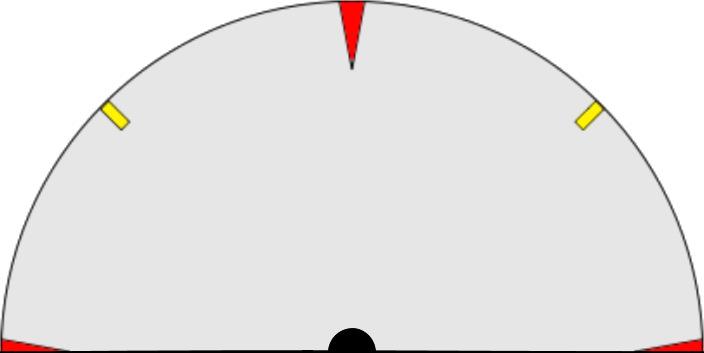
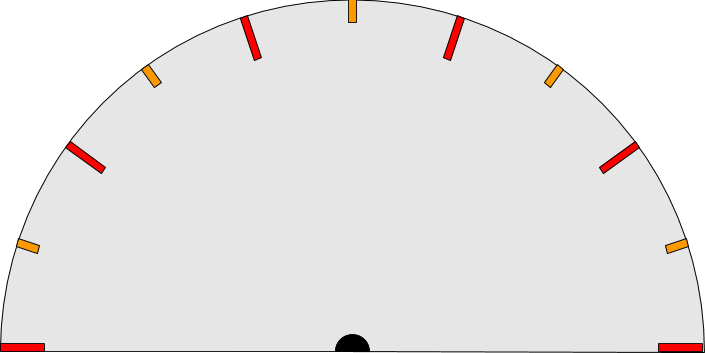
Complete version 1 of speedometer component

diff --git a/MyoBot_Java/src/myobot/bridge/BridgeMain.java b/MyoBot_Java/src/myobot/bridge/BridgeMain.java
@@ -47,6 +47,7 @@ import myobot.bridge.myo.EulerOrientation;
 import myobot.bridge.myo.Myo;
 import myobot.bridge.myo.MyoException;
 import myobot.bridge.ui.AngleVisualizer;
+import myobot.bridge.ui.Speedometer;
 
 public class BridgeMain {
 	
@@ -63,7 +64,8 @@ public class BridgeMain {
 	public static final int GYRO_SIZE = 80;
 	public static final int SPEEDOMETER_SIZE = 80;
 	public static final Dimension BUTTON_SIZE = new Dimension(80, 30);
-	public static final Dimension VERTICAL_SPACING_SMALL = new Dimension(1, 5);
+	public static final int VERTICAL_SPACING_SMALL = 5;
+	public static final int HORIZONTAL_SPACING_SMALL = 20;
 	public static final Dimension TEXT_FIELD_MAX_SIZE = new Dimension(80, Integer.MAX_VALUE);
 	public static final Dimension SMALL_ICON_SIZE = new Dimension(24, 24);
 	public static final Dimension POSE_ICON_SIZE = new Dimension(100, 100);
@@ -98,8 +100,14 @@ public class BridgeMain {
 	//Speedometer components
 	static JPanel speedometerPanel;
 	static JPanel driveSpeedPanel;
+	static JPanel leftMotorPanel;
+	static JPanel rightMotorPanel;
 	static JPanel elevatorSpeedPanel;
 	static JPanel intakeSpeedPanel;
+	static JTextField leftMotorField, rightMotorField, elevatorField, intakeField;
+	static JLabel driveDirectionLabel;
+	static ImageIcon driveDirectionIcon;
+	static Speedometer leftMotorSpeedometer, rightMotorSpeedometer, elevatorSpeedometer, intakeSpeedometer;
 	//Last time's status
 	//Used to determine whether or not to update the icons
 	static boolean lastOnArm = false;
@@ -352,10 +360,10 @@ public class BridgeMain {
 		JLabel yawLabel = new JLabel("Yaw");
 		yawLabel.setAlignmentX(JLabel.CENTER_ALIGNMENT);
 		yawPanel.add(yawLabel);
-		yawPanel.add(Box.createRigidArea(VERTICAL_SPACING_SMALL));
+		yawPanel.add(Box.createVerticalStrut(VERTICAL_SPACING_SMALL));
 		yawVisualizer = new AngleVisualizer(GYRO_SIZE);
 		yawPanel.add(yawVisualizer);
-		yawPanel.add(Box.createRigidArea(VERTICAL_SPACING_SMALL));
+		yawPanel.add(Box.createVerticalStrut(VERTICAL_SPACING_SMALL));
 		yawField = new JTextField();
 		yawField.setText("0.0");
 		yawField.setHorizontalAlignment(JTextField.CENTER);
@@ -371,10 +379,10 @@ public class BridgeMain {
 		JLabel pitchLabel = new JLabel("Pitch");
 		pitchLabel.setAlignmentX(JLabel.CENTER_ALIGNMENT);
 		pitchPanel.add(pitchLabel);
-		pitchPanel.add(Box.createRigidArea(VERTICAL_SPACING_SMALL));
+		pitchPanel.add(Box.createVerticalStrut(VERTICAL_SPACING_SMALL));
 		pitchVisualizer = new AngleVisualizer(GYRO_SIZE);
 		pitchPanel.add(pitchVisualizer);
-		pitchPanel.add(Box.createRigidArea(VERTICAL_SPACING_SMALL));
+		pitchPanel.add(Box.createVerticalStrut(VERTICAL_SPACING_SMALL));
 		pitchField = new JTextField();
 		pitchField.setText("0.0");
 		pitchField.setHorizontalAlignment(JTextField.CENTER);
@@ -390,10 +398,10 @@ public class BridgeMain {
 		JLabel rollLabel = new JLabel("Roll");
 		rollLabel.setAlignmentX(JLabel.CENTER_ALIGNMENT);
 		rollPanel.add(rollLabel);
-		rollPanel.add(Box.createRigidArea(VERTICAL_SPACING_SMALL));
+		rollPanel.add(Box.createVerticalStrut(VERTICAL_SPACING_SMALL));
 		rollVisualizer = new AngleVisualizer(GYRO_SIZE);
 		rollPanel.add(rollVisualizer);
-		rollPanel.add(Box.createRigidArea(VERTICAL_SPACING_SMALL));
+		rollPanel.add(Box.createVerticalStrut(VERTICAL_SPACING_SMALL));
 		rollField = new JTextField();
 		rollField.setText("0.0");
 		rollField.setHorizontalAlignment(JTextField.CENTER);
@@ -420,7 +428,7 @@ public class BridgeMain {
 		poseLabel.setAlignmentX(JLabel.CENTER_ALIGNMENT);
 		posePanel.add(poseLabel);
 		poseNameLabel = new JLabel("Rest/Unknown");
-		posePanel.add(Box.createRigidArea(VERTICAL_SPACING_SMALL));
+		posePanel.add(Box.createVerticalStrut(VERTICAL_SPACING_SMALL));
 		poseNameLabel.setAlignmentX(JLabel.CENTER_ALIGNMENT);
 		poseNameLabel.setHorizontalAlignment(JLabel.CENTER);
 		posePanel.add(poseNameLabel);
@@ -430,8 +438,64 @@ public class BridgeMain {
 		constraints.weightx = 0.5;
 		constraints.fill = GridBagConstraints.BOTH;
 		middleRow.add(posePanel, constraints);
-		
 		mainFrame.add(middleRow);
+		
+		speedometerPanel = new JPanel();
+		speedometerPanel.setBorder(BorderFactory.createTitledBorder("Robot Status"));
+		speedometerPanel.setLayout(new GridBagLayout());
+		
+		//TODO
+		driveSpeedPanel = new JPanel();
+		driveSpeedPanel.setBorder(BorderFactory.createTitledBorder("Drive Speed"));
+		driveSpeedPanel.setLayout(new BoxLayout(driveSpeedPanel, BoxLayout.X_AXIS));
+		driveSpeedPanel.add(Box.createHorizontalGlue());
+		
+		leftMotorPanel = new JPanel();
+		leftMotorPanel.setLayout(new BoxLayout(leftMotorPanel, BoxLayout.Y_AXIS));
+		JLabel leftMotorLabel = new JLabel("Left Motor");
+		leftMotorLabel.setAlignmentX(JLabel.CENTER_ALIGNMENT);
+		leftMotorPanel.add(leftMotorLabel);
+		leftMotorPanel.add(Box.createVerticalStrut(VERTICAL_SPACING_SMALL));
+		leftMotorSpeedometer = new Speedometer(SPEEDOMETER_SIZE);
+		leftMotorPanel.add(leftMotorSpeedometer);
+		leftMotorPanel.add(Box.createVerticalStrut(VERTICAL_SPACING_SMALL));
+		leftMotorField = new JTextField("0.0");
+		leftMotorField.setHorizontalAlignment(JTextField.CENTER);
+		leftMotorField.setEditable(false);
+		leftMotorField.setBackground(DISABLED_COLOR);
+		leftMotorField.setMaximumSize(TEXT_FIELD_MAX_SIZE);
+		leftMotorPanel.add(leftMotorField);
+		driveSpeedPanel.add(leftMotorPanel);
+		driveSpeedPanel.add(Box.createHorizontalGlue());
+		
+		rightMotorPanel = new JPanel();
+		rightMotorPanel.setLayout(new BoxLayout(rightMotorPanel, BoxLayout.Y_AXIS));
+		JLabel rightMotorLabel = new JLabel("Right Motor");
+		rightMotorLabel.setAlignmentX(JLabel.CENTER_ALIGNMENT);
+		rightMotorPanel.add(rightMotorLabel);
+		rightMotorPanel.add(Box.createVerticalStrut(VERTICAL_SPACING_SMALL));
+		rightMotorSpeedometer = new Speedometer(SPEEDOMETER_SIZE);
+		rightMotorPanel.add(rightMotorSpeedometer);
+		rightMotorPanel.add(Box.createVerticalStrut(VERTICAL_SPACING_SMALL));
+		rightMotorField = new JTextField("0.0");
+		rightMotorField.setHorizontalAlignment(JTextField.CENTER);
+		rightMotorField.setEditable(false);
+		rightMotorField.setBackground(DISABLED_COLOR);
+		rightMotorField.setMaximumSize(TEXT_FIELD_MAX_SIZE);
+		rightMotorPanel.add(rightMotorField);
+		driveSpeedPanel.add(rightMotorPanel);
+		driveSpeedPanel.add(Box.createHorizontalGlue());
+		
+		//driveDirectionIcon = new ImageIcon();
+		
+		constraints.gridx = 0;
+		constraints.gridy = 0;
+		constraints.fill = GridBagConstraints.BOTH;
+		constraints.weightx = 1.0;
+		speedometerPanel.add(driveSpeedPanel, constraints);
+		
+		mainFrame.add(speedometerPanel);
+		
 		mainFrame.pack();
 		fixSize(yawField);
 		fixSize(pitchField);
@@ -482,6 +546,19 @@ public class BridgeMain {
 			else {
 				onArmStatusIcon.setImage(imgOffArm);
 				onArmStatusLabel.setToolTipText(TOOLTIP_OFFARM);
+				
+				yawField.setText("0.0");
+				pitchField.setText("0.0");
+				rollField.setText("0.0");
+				yawVisualizer.updateAngleNoRepaint(0);
+				pitchVisualizer.updateAngleNoRepaint(0);
+				rollVisualizer.updateAngleNoRepaint(0);
+				poseIcon.setImage(imgNoPose);
+				poseNameLabel.setText("Rest/Unknown");
+				lockUnlockButton.setText("Unlock");
+				unlockStatusIcon.setImage(imgLocked);
+				unlockStatusLabel.setToolTipText(TOOLTIP_LOCKED);
+				mainFrame.repaint();
 			}
 			
 			lastOnArm = onArm;

diff --git a/MyoBot_Java/src/myobot/bridge/ui/Speedometer.java b/MyoBot_Java/src/myobot/bridge/ui/Speedometer.java
@@ -1,7 +1,14 @@
 package myobot.bridge.ui;
 
+import java.awt.BasicStroke;
+import java.awt.Color;
 import java.awt.Dimension;
+import java.awt.Graphics;
+import java.awt.Graphics2D;
 import java.awt.Image;
+import java.awt.Stroke;
+import java.awt.geom.AffineTransform;
+import java.awt.geom.Ellipse2D;
 import java.io.IOException;
 import java.io.InputStream;
 
@@ -14,10 +21,16 @@ public class Speedometer extends JPanel {
 	 * 
 	 */
 	private static final long serialVersionUID = 7000034129617442900L;
+	
+	public static final Color COLOR_FORWARD = new Color(0x00, 0xE0, 0x00);
+	public static final Color COLOR_REVERSE = new Color(0xE0, 0x00, 0x00);
+	public static final Color COLOR_OFF = new Color(0xE7, 0xE7, 0xE7);
 
 	int width;
 	Image baseImage;
 	Image overlayImage;
+	Ellipse2D light;
+	Stroke lightStroke;
 	double speed = +0.0;
 	
 	public Speedometer(int width) throws IOException {
@@ -30,6 +43,9 @@ public class Speedometer extends JPanel {
 		imageStream = getClass().getResourceAsStream("/resources/ui/gyro/gyro_pointer.png");
 		overlayImage = ImageIO.read(imageStream).getScaledInstance(width, width, Image.SCALE_SMOOTH);
 		imageStream.close();
+		
+		light = new Ellipse2D.Double(width - width / 10.7, width / 32.0, width / 12.0, width / 12.0);
+		lightStroke = new BasicStroke((float) (width / 128.0), BasicStroke.CAP_ROUND, BasicStroke.JOIN_ROUND);
 		
 		setPreferredSize(new Dimension(width, width / 2));
 		setMinimumSize(new Dimension(width, width / 2));
@@ -45,5 +61,32 @@ public class Speedometer extends JPanel {
 	}
 	public void updateSpeedNoRepaint(double speed) {
 		this.speed = speed;
+	}
+	
+	@Override
+	protected void paintComponent(Graphics g) {
+		super.paintComponent(g);
+		Graphics2D graphics = (Graphics2D) g;
+		
+		graphics.drawImage(baseImage, 0, 0, null);
+		graphics.setStroke(lightStroke);
+		if(speed > 0) {
+			graphics.setPaint(COLOR_FORWARD);
+		}
+		else if(speed < 0) {
+			graphics.setPaint(COLOR_REVERSE);
+		}
+		else {
+			graphics.setPaint(COLOR_OFF);
+		}
+		
+		AffineTransform old = graphics.getTransform();
+		graphics.translate(width / 2, width / 2);
+		graphics.rotate(Math.PI * speed - (Math.PI / 2));
+		graphics.drawImage(overlayImage, -width / 2, -width / 2, null);
+		graphics.setTransform(old);
+		graphics.fill(light);
+		graphics.setPaint(Color.BLACK);
+		graphics.draw(light);
 	}
 }
